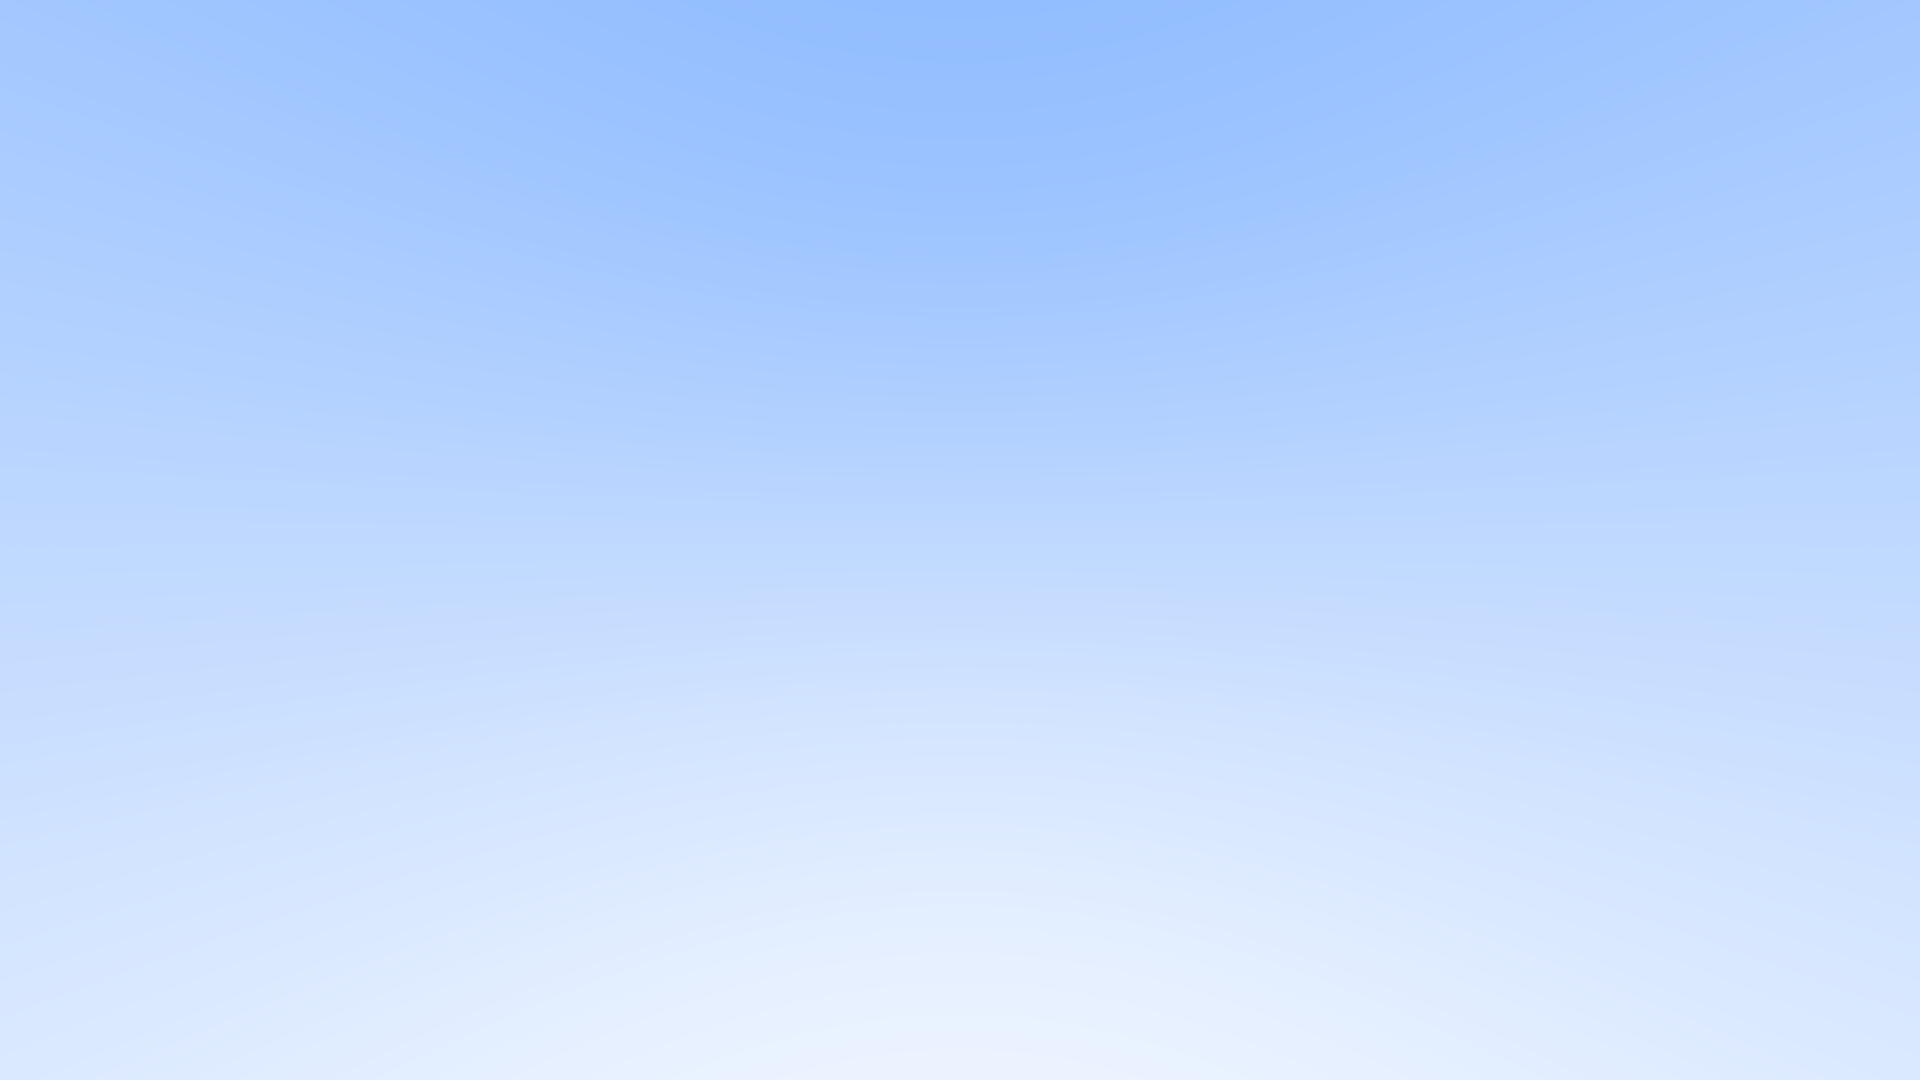
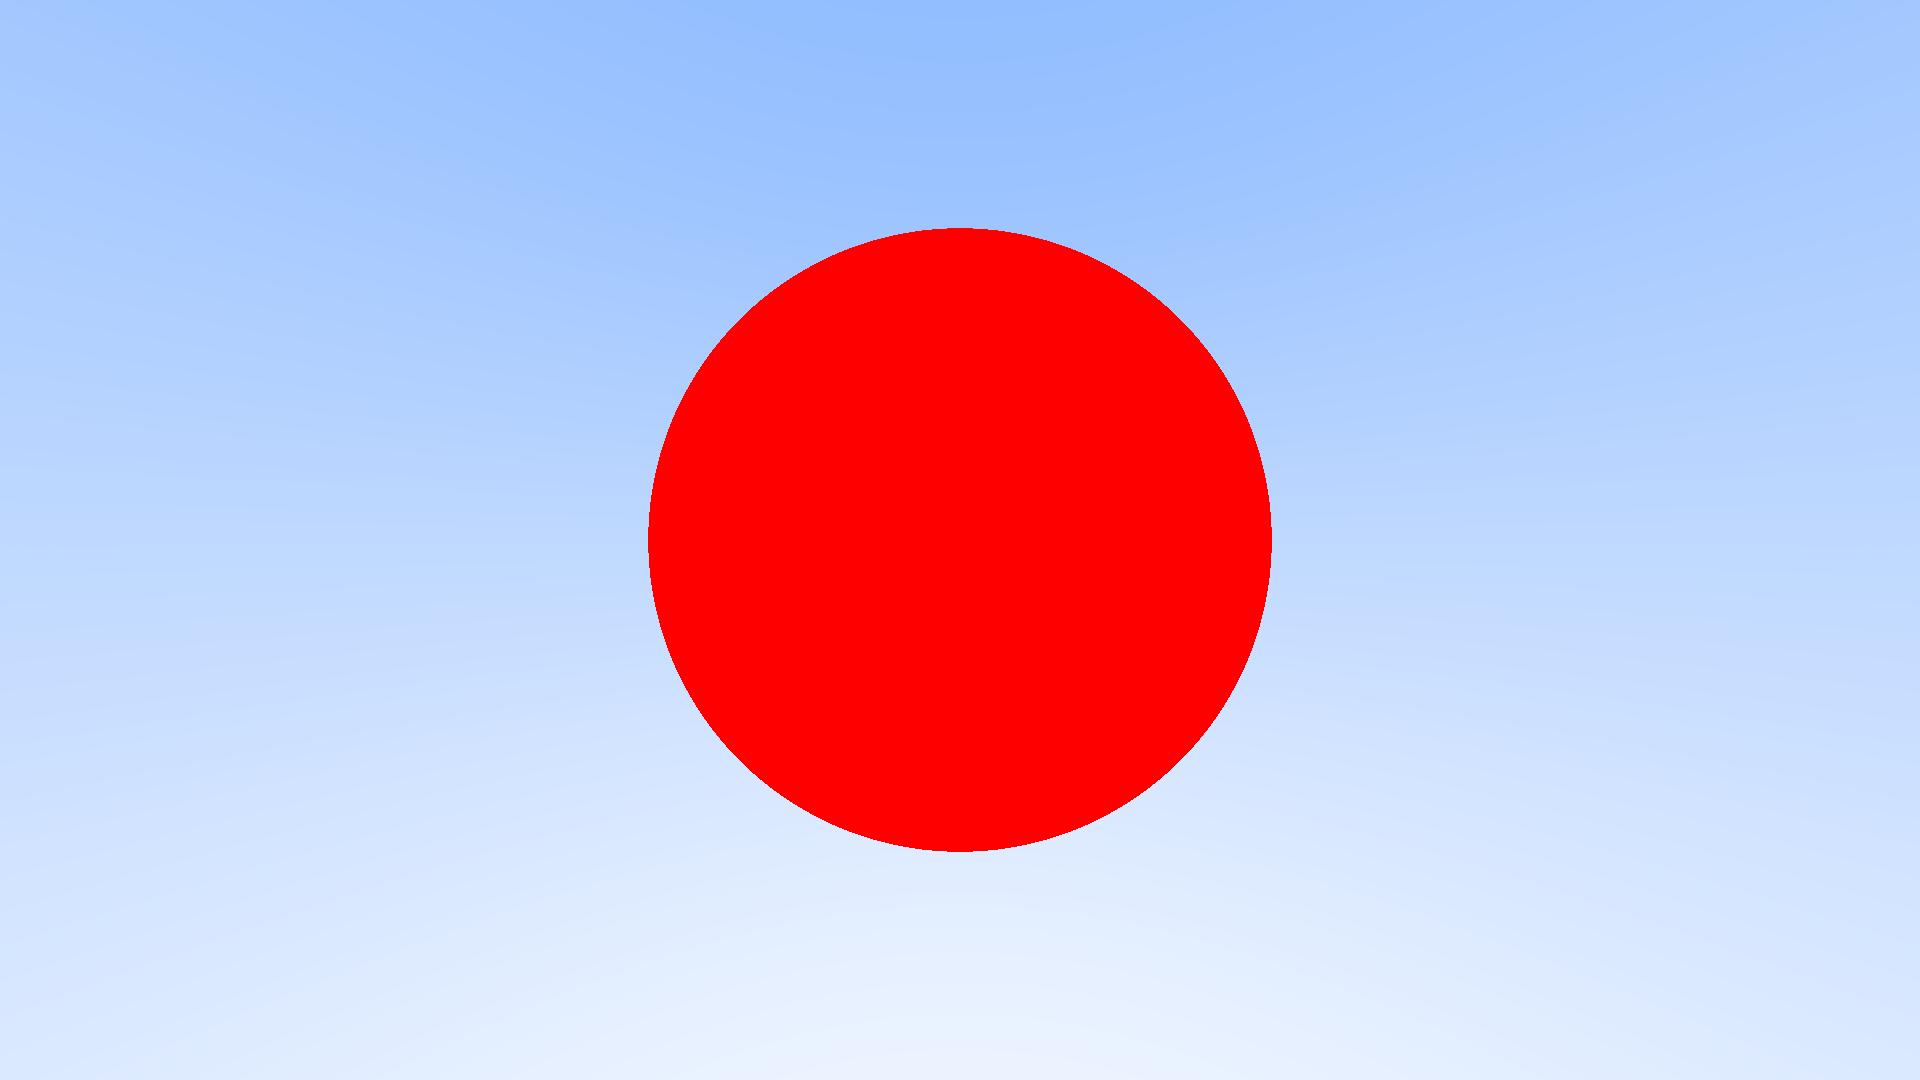
Added sphere geometry

Changed region(s): [[0.3125, 0.2139, 0.6875, 0.7944]]

diff --git a/archer/src/main.rs b/archer/src/main.rs
@@ -1,6 +1,8 @@
 use std::time::Instant;
 use image::{ImageBuffer, RgbImage};
 
+use archer::models::sphere::Sphere;
+use archer::models::base::Model;
 use archer::camera::Camera;
 use archer::ray::Ray;
 use archer::vectors;
@@ -20,6 +22,11 @@ fn main() {
     let mut cam = Camera::new(RESOLUTION);
     cam.update();
 
+    let sphere: Sphere = Sphere {
+        radius: 0.5,
+        position: Vec3 { x: 0.0, y: 0.0, z: -1.0 }
+    };
+
     let now = Instant::now();
 
     for x in 0..RESOLUTION[0] {
@@ -29,15 +36,22 @@ fn main() {
             let norm = ray.direction.normalize();
             let a = 0.5 * (norm.y + 1.0);
             let color: Vec3 = Vec3::fill(1.0 - a) * white + Vec3::fill(a) * blue;
-            let /* mut */ final_color: [u8; 3] = [color.x as u8, color.y as u8, color.z as u8];
+            let mut final_color: [u8; 3] = [color.x as u8, color.y as u8, color.z as u8];
+            
+            let intersect = sphere.intersect(ray);
+            if intersect >= 0.0 {
+                final_color = [255, 0, 0];
+            };
 
             *image.get_pixel_mut(x, y) = image::Rgb(final_color);
         }
     }
-    
-    image.save("output.png").unwrap();
 
     let elapsed = now.elapsed().as_secs_f64();
     let fps: f64 = 1.0 / elapsed;
     println!("One frame took {elapsed} seconds. That's {fps} FPS!");
+    
+    println!("Saving image to `output.png`...");
+    image.save("output.png").unwrap();
+    println!("Image saved successfully! Exiting now.");
 }

diff --git a/archer/src/models/sphere.rs b/archer/src/models/sphere.rs
@@ -1,0 +1,21 @@
+use crate::models::base::Model;
+use crate::vectors::Vec3;
+use crate::vectors::dot;
+use crate::ray::Ray;
+
+pub struct Sphere {
+    pub radius: f32,
+    pub position: Vec3
+}
+
+impl Model for Sphere {
+    fn intersect(&self, incoming: Ray) -> f32 {
+        let oc: Vec3 = self.position - incoming.origin;
+        let a: f32 = dot(incoming.direction, incoming.direction);
+        let b: f32 = -2.0 * dot(incoming.direction, oc);
+        let c: f32 = dot(oc, oc) - self.radius * self.radius;
+        let discriminant: f32 = b*b - 4.0*a*c;
+        return discriminant;
+    }
+}
+

diff --git a/archer/src/vectors.rs b/archer/src/vectors.rs
@@ -146,3 +146,9 @@ impl Vec3 {
     }
 }
 
+pub fn dot(a: Vec3, b: Vec3) -> f32 {
+    return a.x * b.x
+        + a.y * b.y
+        + a.z * b.z;
+}
+

diff --git a/archer/src/models/base.rs b/archer/src/models/base.rs
@@ -1,0 +1,5 @@
+use crate::ray::Ray;
+
+pub trait Model {
+    fn intersect(&self, incoming: Ray) -> f32;
+}

diff --git a/archer/src/lib.rs b/archer/src/lib.rs
@@ -1,3 +1,4 @@
 pub mod vectors;
 pub mod camera;
 pub mod ray;
+pub mod models;

diff --git a/archer/src/models.rs b/archer/src/models.rs
@@ -1,0 +1,2 @@
+pub mod base;
+pub mod sphere;
